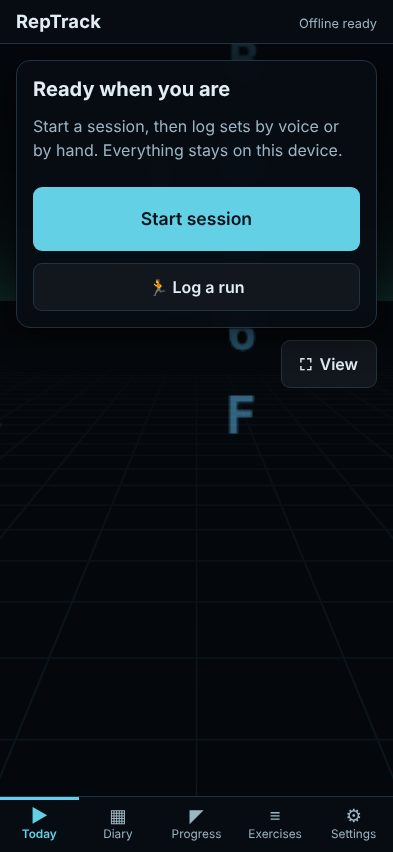
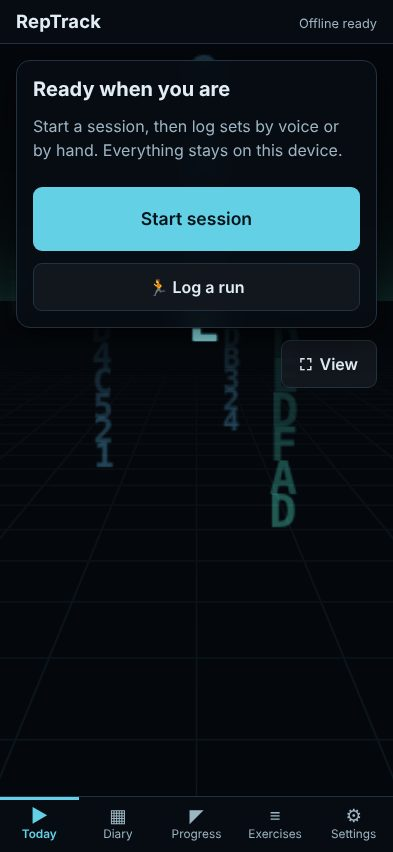
Record live verification of the Forge rotation + plates update
Claude-Session: https://claude.ai/code/session_01CYDVdR3vLihRKRwozUR3TD

diff --git a/ACCEPTANCE.md b/ACCEPTANCE.md
@@ -269,7 +269,7 @@ Per `docs/FOLLOWUP_PROMPT_FORGE_ROTATE_PLATES.md`.
 | 117 | Simulated level-up slides a plate on; level drop slides one off gently | `visuals.test.js` → "a level-up slides a plate on; a level easing down slides one off gently" (seen mid-move; alpha fades gradually); unit tests pin order and timing; `forge-plates-sliding-on.jpg` | ✅ |
 | 118 | Forge CPU re-measured, within budget | `npm run skins`: app JS +0.9% (was +0.7%), 30 fps; 2D fallback 2.9% | ✅ headless / ⚠ device — `MANUAL_TEST.md` Check 2 |
 | 119 | Existing acceptance suite green | 258 passing, two consecutive full runs | ✅ |
-| 120 | Pushed, cache bumped, live re-verified | `reptrack-shell-v5`. See `DEPLOYMENT.md` → "Live verification" | see `DEPLOYMENT.md` |
+| 120 | Pushed, cache bumped, live re-verified | Live files byte-identical to `9f37261`; SW `/reptrack/` with `reptrack-shell-v5`; on the live site a Forge drag changes 4.85% of the frame (0.11% before the fix); plates correct; no console errors. `DEPLOYMENT.md` → "Live verification" | ✅ |
 | 121 | `MANUAL_TEST.md` on-phone check for Forge drag and plate count | Check 2 → "Forge, specifically", with the plate table to compare against | ✅ |
 
 ## Build constraints

diff --git a/DEPLOYMENT.md b/DEPLOYMENT.md
@@ -148,3 +148,12 @@ every voice feature and involves no microphone at all.
 
 Earlier passes could only confirm the Actions run, because this sandbox's proxy refused the Pages
 host. This session's environment now allows it, so the live files themselves were fetched back.
+
+### Forge rotation + plates — commit `9f37261`, 2026-11-09
+
+- The live site serves `sw.js`, `js/app.js`, `js/backdrop.js`, `js/backdrop-gl.js`,
+  `js/theme-engine.js` and `js/graphic-view.js` byte-identical to the commit. The service
+  worker is scoped to `/reptrack/` with the single cache `reptrack-shell-v5`.
+- On the live site, the same scripted Forge drag that changed **0.11%** of the frame before
+  the fix now changes **4.85%**. Level 6 shows two large plates per side. No console errors.
+- `docs/screenshots/live/` re-captured from the deployment, including the Forge plate set.
